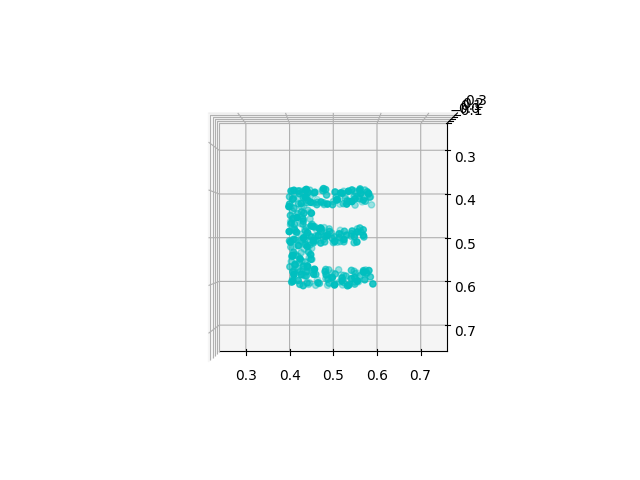
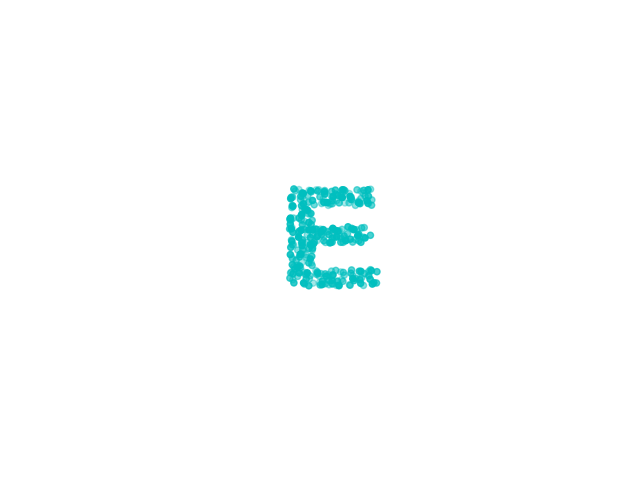
Update the cyan targets

Changed region(s): [[0.3125, 0.1875, 0.7812, 0.8125], [0.6562, 0.5625, 0.75, 0.625], [0.375, 0.5625, 0.4062, 0.5938]]

diff --git a/generate_shape.py b/generate_shape.py
@@ -30,6 +30,7 @@ def visualize_points(all_points, n_particles, path):
 
     fig = plt.figure()
     ax = fig.add_subplot(111, projection='3d')
+    ax.axis('off')
     ax.view_init(90, 90)
     ax.scatter(points[:, 0], points[:, 2], points[:, 1], c='c', s=20)
     ax.scatter(shapes[:, 0], shapes[:, 2], shapes[:, 1], c='r', s=20)
